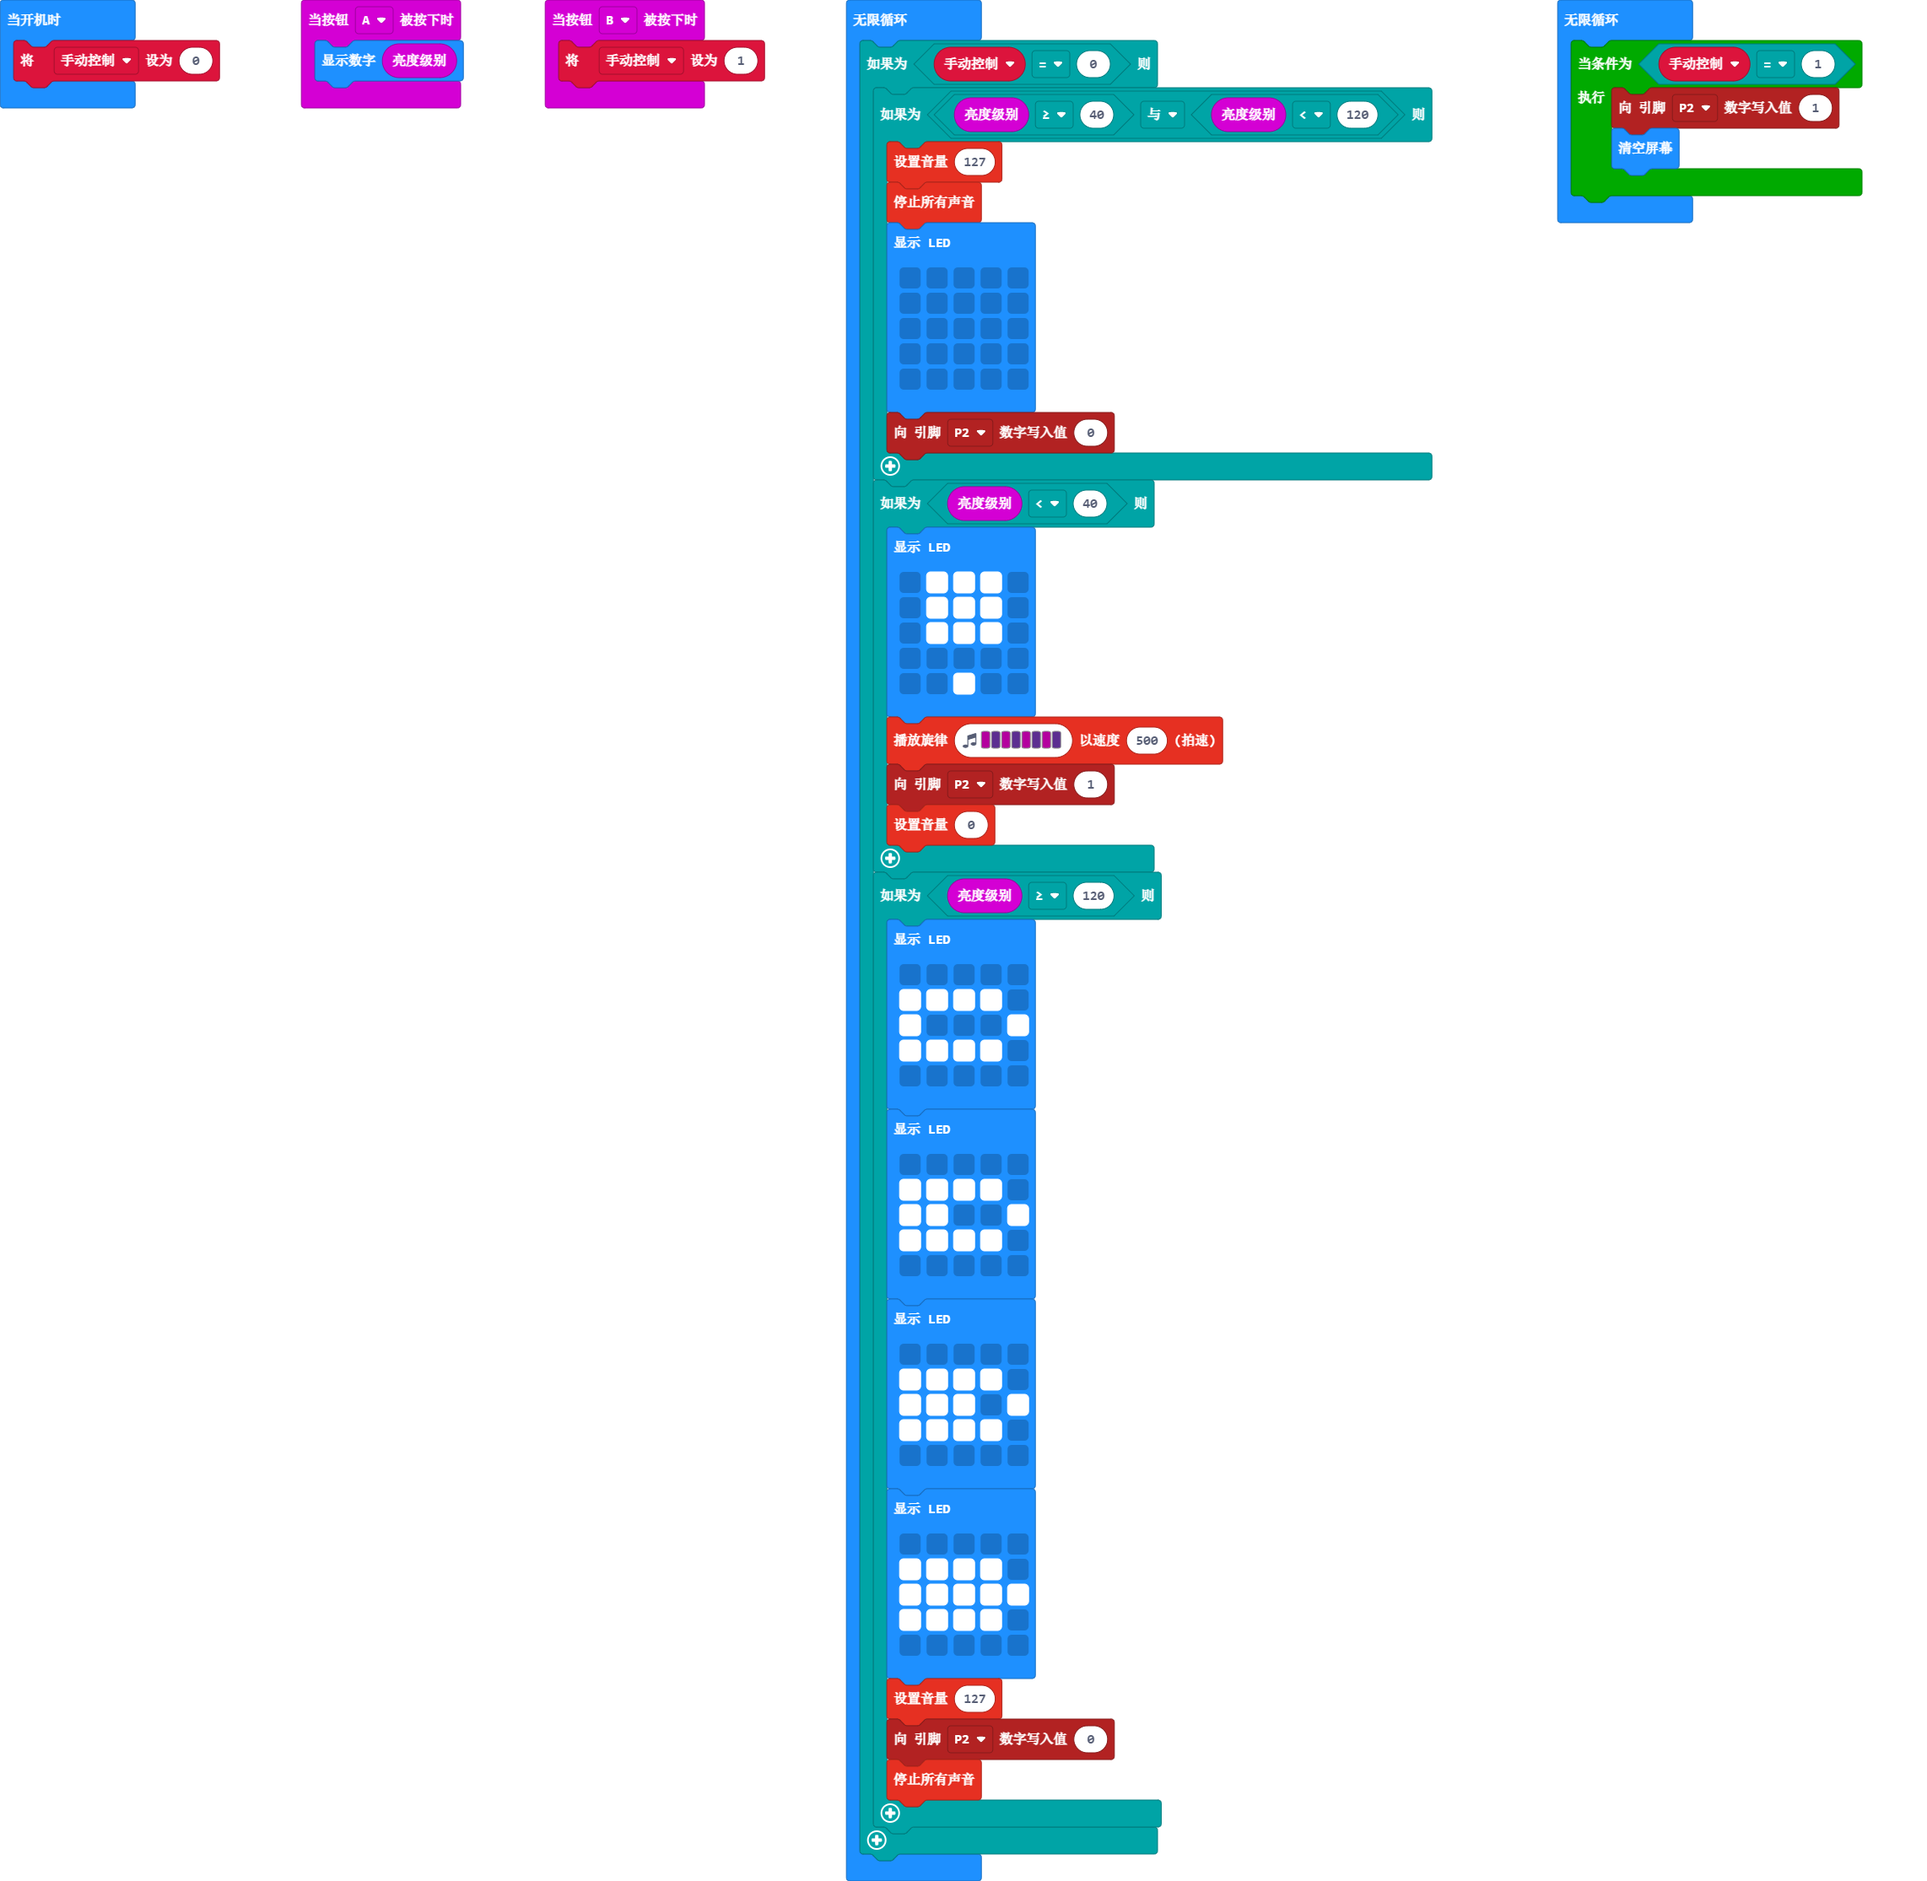
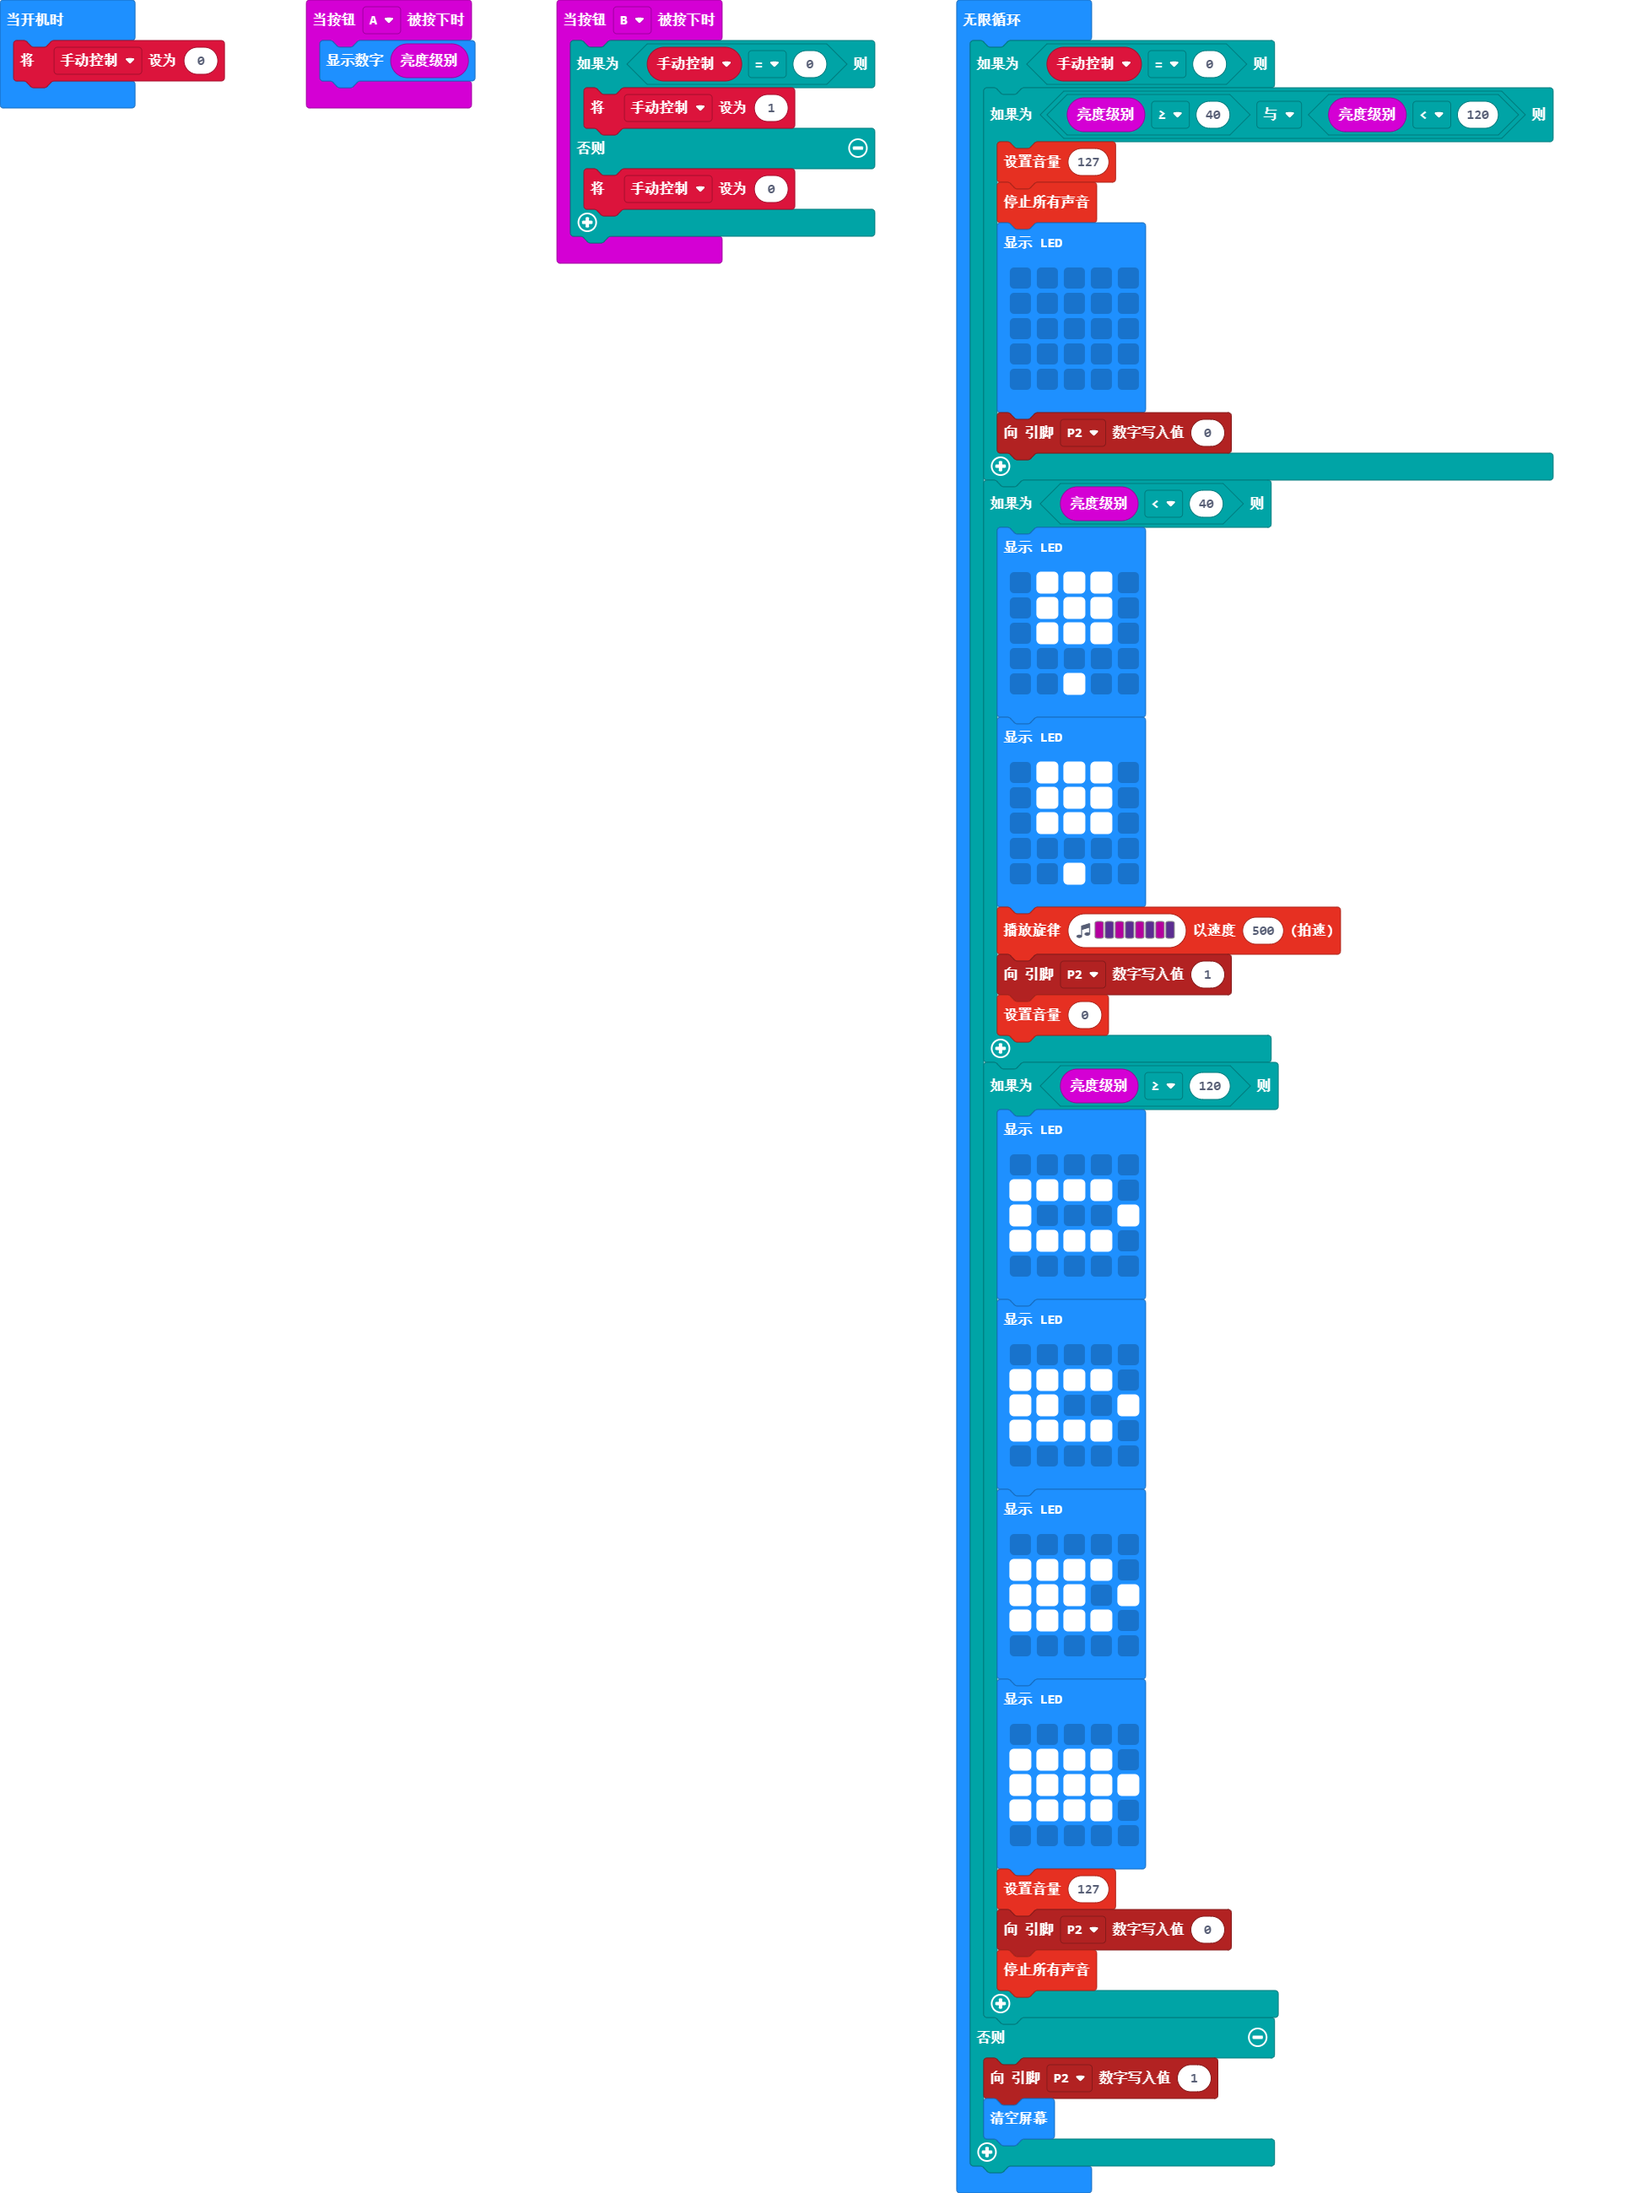
更新 main.blocks, main.ts

Changed region(s): [[0.0, 0.0, 0.9871, 1.0]]

diff --git a/main.ts b/main.ts
@@ -2,7 +2,11 @@ input.onButtonPressed(Button.A, function () {
     basic.showNumber(input.lightLevel())
 })
 input.onButtonPressed(Button.B, function () {
-    手动控制 = 1
+    if (手动控制 == 0) {
+        手动控制 = 1
+    } else {
+        手动控制 = 0
+    }
 })
 let 手动控制 = 0
 手动控制 = 0
@@ -21,6 +25,13 @@ basic.forever(function () {
             pins.digitalWritePin(DigitalPin.P2, 0)
         }
         if (input.lightLevel() < 40) {
+            basic.showLeds(`
+                . # # # .
+                . # # # .
+                . # # # .
+                . . . . .
+                . . # . .
+                `)
             basic.showLeds(`
                 . # # # .
                 . # # # .
@@ -65,10 +76,7 @@ basic.forever(function () {
             pins.digitalWritePin(DigitalPin.P2, 0)
             music.stopAllSounds()
         }
-    }
-})
-basic.forever(function () {
-    while (手动控制 == 1) {
+    } else {
         pins.digitalWritePin(DigitalPin.P2, 1)
         basic.clearScreen()
     }
